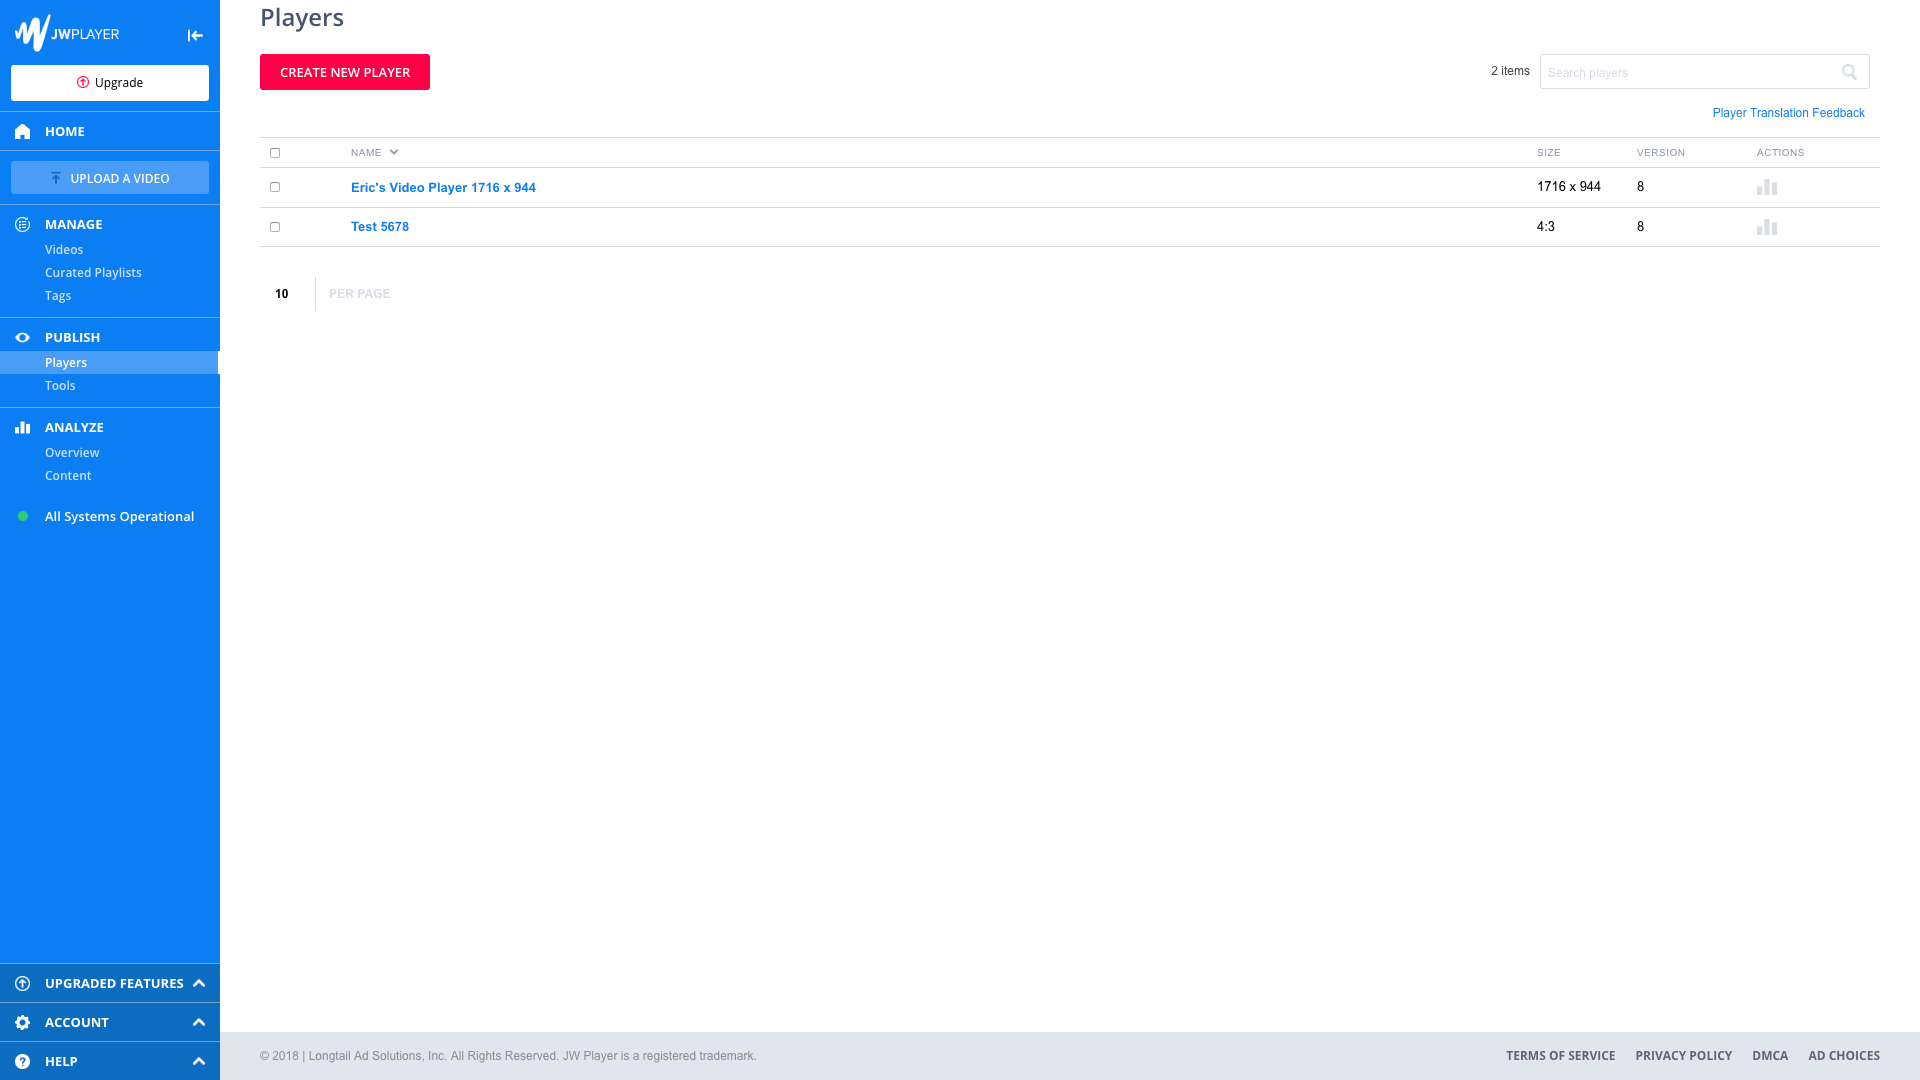
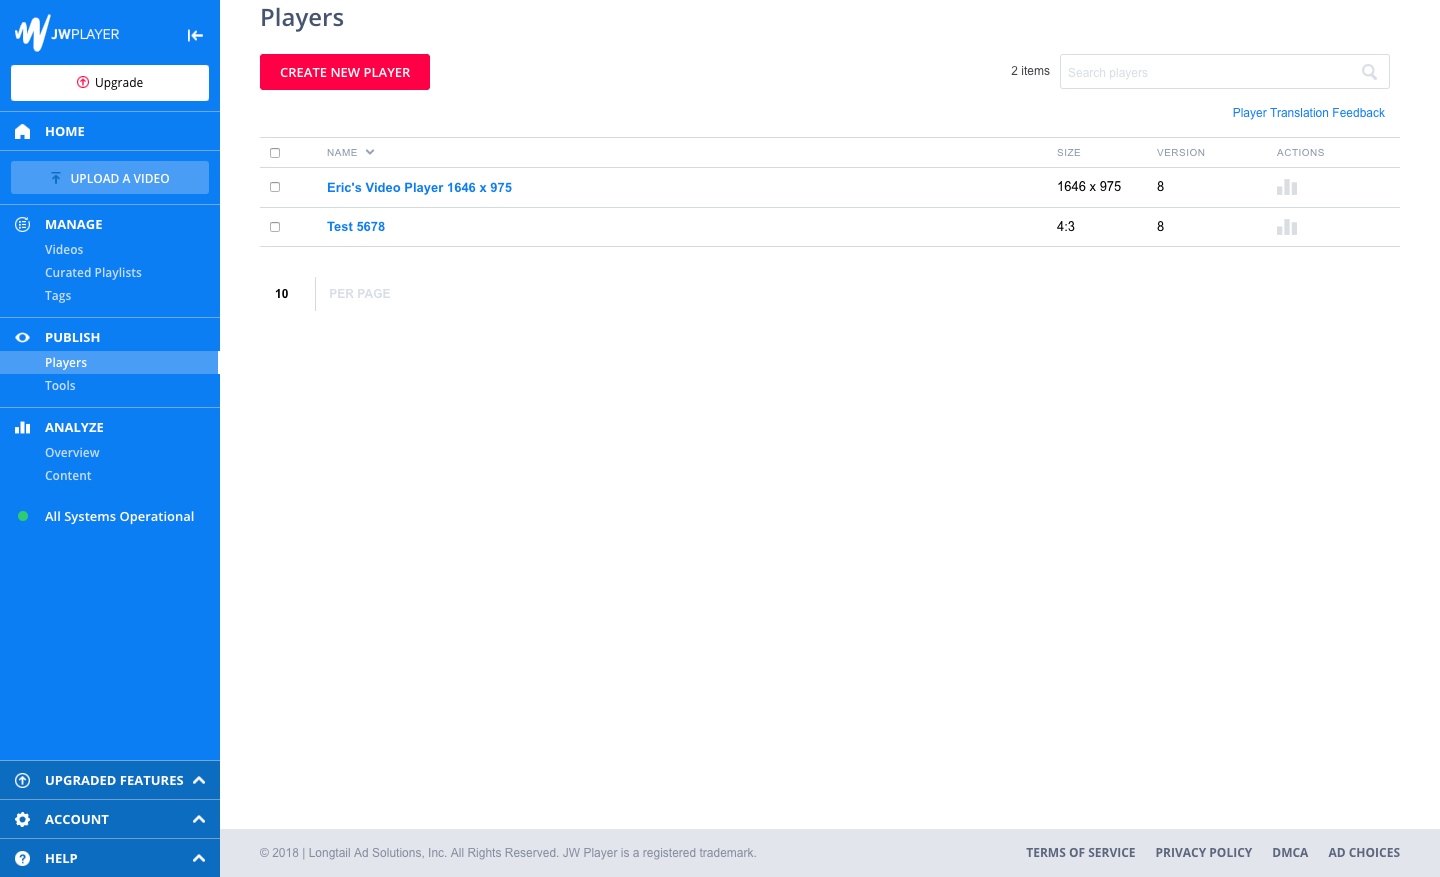
adds working tests with page objects

diff --git a/test/spec/jw_player.spec.js b/test/spec/jw_player.spec.js
@@ -1,25 +1,22 @@
+/**
+ * Test setup/teardown and steps utilizing page objects for the requested problems.
+ */
 
-
-/*1. Log in to the jwplayer dashboard at https://dashboard.jwplayer.com/ (You will need to Create a free account ahead of time and use those credentials to log in)
-    2. Click on the “Players” link in the navbar to go to the players list page
+/*
+1. Log in to the jwplayer dashboard at https://dashboard.jwplayer.com/ (You will need to Create a free account ahead of time and use those credentials to log in)
+2. Click on the “Players” link in the navbar to go to the players list page
 3. Click the name of an example player in the list to go to the player builder page.
-   4. On the player builder page, rename the player, change the aspect ratio, and save your changes
-5. Close the player builder page;  on the players list page verify your changes to the name and size of the player*/
-
+4. On the player builder page, rename the player, change the aspect ratio, and save your changes
+5. Close the player builder page;  on the players list page verify your changes to the name and size of the player
+*/
 
 import puppeteer from "puppeteer";
-import {DASHBOARD_LOGIN} from "../fixtures/login";
 
-
-const BASE_URI = "https://dashboard.jwplayer.com/";
-
+/*********************** Puppeteer/Jest Setup ******************************/
 let page;
 let browser;
-const width = 1920;
-const height = 1080;
 
-
-
+//Set 'headless' to turn off browswer UI, increase sloMo to slow down test execution.
 beforeAll(async () => {
     browser = await puppeteer.launch({
         headless: false,
@@ -27,64 +24,64 @@ beforeAll(async () => {
         args: [`--start-fullscreen`]
     });
     page = await browser.newPage();
+    //dynamically set browser viewport to user's display resolution, else default to
+    //MacBook Pro resolution
+    const width = await page.evaluate("window.screen.availWidth") || 1440;
+    const height = await page.evaluate("window.screen.availHeight") || 900;
     await page.setViewport({ width, height });
 });
 
 afterAll(() => {
     browser.close();
 });
+/***************************************************************************/
 
-const newPlayerWidth = generateResolution().width;
-const newPlayerHeight = generateResolution().height;
+
+//Setup for tests
+import { dashboardLogin } from "../fixtures/login";
+import * as dashboardSignIn from "../page-objects/dashboard-sign-in";
+import * as playerList from "../page-objects/player-list";
+import * as playerBuilder from "../page-objects/player-builder";
+import * as helper from "../page-objects/helper";
+
+const newPlayerWidth = helper.generateResolution().width;
+const newPlayerHeight = helper.generateResolution().height;
 const newTitle = "Eric's Video Player " + newPlayerWidth + " x " + newPlayerHeight;
 
 describe("JWPlayer test", () => {
     test("logs into dashboard", async () => {
-        await page.goto(BASE_URI);
-        await page.waitForSelector("[name=\"loginForm\"] #email");
-        await page.type("[name=\"loginForm\"] #email", DASHBOARD_LOGIN.email);
-        await page.type("[name=\"loginForm\"] [name=\"password\"]", DASHBOARD_LOGIN.password);
-        await page.click("[name=\"loginForm\"] #submit_login");
-        await page.waitForSelector(".navigation-bar .publish [href=\"/#/players/list\"]");
-            //expect(await page.title()).toContain("Overview")
-    }, 16000);
+        await page.goto(dashboardSignIn.URI);
+        await page.waitForSelector(dashboardSignIn.selectors.email);
+        await page.type(dashboardSignIn.selectors.email, dashboardLogin.email);
+        await page.type(dashboardSignIn.selectors.password, dashboardLogin.password);
+        await page.click(dashboardSignIn.selectors.signInButton);
+        await page.waitForSelector(playerList.NavBar.selectors.playerListLink);
+    }, 20000);
 
     test("clicks on players link and goes to player builder page", async () => {
-        await page.click(".navigation-bar .publish [href=\"/#/players/list\"]");
-        await page.waitForSelector(".player-table .videoTruncate");
-        await page.click(".player-table .videoTruncate");
+        await page.click(playerList.NavBar.selectors.playerListLink);
+        await page.waitForSelector(playerList.selectors.firstRowPlayerLink);
+        await page.click(playerList.selectors.firstRowPlayerLink);
         await page.waitForSelector("#player-name");
-    }, 16000);
+    }, 20000);
 
     test("renames the player, changes aspect ration and saves changes", async() => {
-        await page.evaluate( () => document.querySelector("#player-name").value = "");
-        await page.type("#player-name", newTitle);
-        await page.click(".player-size #fixed");
-        await page.evaluate( () => document.querySelector(".fixed-size-input [placeholder=\"Width\"]").value = "");
-        await page.evaluate( () => document.querySelector(".fixed-size-input [placeholder=\"Height\"]").value = "");
-        await page.type(".fixed-size-input [placeholder=\"Width\"]", newPlayerWidth);
-        await page.type(".fixed-size-input [placeholder=\"Height\"]", newPlayerHeight);
-        await page.click(".action-buttons [ng-show=\"canEditPlayers()\"]");
-        await page.waitForSelector(".success.notification-show");
-    });
+        await helper.clearTextFields(page, Object.values(playerBuilder.selectors.formFields));
+        await page.type(playerBuilder.selectors.formFields.playerNameTextField, newTitle);
+        await page.click(playerBuilder.selectors.fixedSizeRadioButton);
+        await page.type(playerBuilder.selectors.formFields.playerWidth, newPlayerWidth);
+        await page.type(playerBuilder.selectors.formFields.playerHeight, newPlayerHeight);
+        await page.click(playerBuilder.header.selectors.saveChangesButton);
+        await page.waitForSelector(playerBuilder.header.selectors.successNotification);
+    }, 20000);
 
     test("closes player builder page and verifies the changed name and player aspect ratio", async() => {
-        await page.click(".action-buttons [ng-click=\"close()\"]");
-        await page.waitForSelector(".player-table tbody tr:first-child [title]");
-        const savedTitle = await page.$eval(".player-table tbody tr:first-child [title]", element => element.innerText);
-        const savedResolution = await page.$eval(".player-table tbody tr:first-child td:nth-child(3)", element => element.innerText);
-        expect(savedTitle).toBe(newTitle);
-        expect(newPlayerWidth + " x " + newPlayerHeight).toBe(savedResolution.trim());
+        await page.click(playerBuilder.header.selectors.closePlayerButton);
+        await page.waitForSelector(playerList.selectors.firstRowPlayerLink);
+        const savedTitle = await helper.getInnerText(page, playerList.selectors.firstRowPlayerLink);
+        const savedResolution = await helper.getInnerText(page, playerList.selectors.firstRowResolution);
+            expect(savedTitle).toBe(newTitle);
+            expect(newPlayerWidth + " x " + newPlayerHeight).toBe(savedResolution);
         await page.screenshot({ path: 'myscreenshot.png', fullPage: true });
-    })
+    }, 20000)
 });
-
-
-function generateResolution() {
-   let width =  Math.floor((Math.random() * (1920 - 1280) + 1280));
-   let height = Math.floor(width / 1.777777778);
-    return {
-        "width": width.toString(),
-        "height": height.toString()
-   }
-}

diff --git a/test/page-objects/helper.js b/test/page-objects/helper.js
@@ -1,0 +1,52 @@
+/**
+ * "Helper" functions that would be commonly called across many page objects.
+ */
+
+
+/**
+ * Helper method for clearing a single or list of text fields of placeholder text
+ * @param page: Puppeteer page object
+ * @param selectors: A single string representing a selector or an array of strings
+ * @returns {Promise<void>}
+ */
+async function clearTextFields(page, selectors) {
+    if (Array.isArray(selectors)) {
+        for (let selector of selectors) {
+            page.$eval(selector, textField => textField.value = "");
+        }
+    } else
+        page.$eval(selectors, textField => textField.value = "");
+}
+
+/**
+ * Helper method for returning trimmed text displayed to the user from a single
+ * or list of elements
+ * @param page: Puppeteer page object
+ * @param selectors: A single string representing a selector or an array of strings
+ * @returns {Promise<Array>} or single promise for single selector
+ */
+async function getInnerText(page, selectors) {
+    if (Array.isArray(selectors)) {
+        let innerText = [];
+        for (let selector of selectors) {
+            innerText.push(await page.$eval(selector, element => element.innerText.trim()));
+        }
+        return innerText;
+    } else
+        return await page.$eval(selectors, element => element.innerText.trim());
+}
+
+/**
+ * Generate the width and height of a (very, very close) 16x9 display resolution in pixels
+ * @returns {{width: string, height: string}}
+ */
+function generateResolution() {
+    let width =  Math.floor((Math.random() * (1920 - 1280) + 1280));
+    let height = Math.floor(width / 1.777777778);
+    return {
+        "width": width.toString(),
+        "height": height.toString()
+    }
+}
+
+export { clearTextFields, getInnerText, generateResolution }

diff --git a/test/page-objects/player-builder.js b/test/page-objects/player-builder.js
@@ -1,0 +1,23 @@
+/**
+ * An individual player builder (configuration) page where resolution and other properties
+ * may be edited.
+ */
+
+import * as basePage from "./base-page"
+import * as navBar from "./partials/dashboard-navbar"
+import * as header from "./partials/player-builder/header"
+
+//property token and unique player ID would be queried from an internal API
+const route = "#/players/basic_setup_jw8?property=&player_key=";
+const URI = basePage.BASE_URI + route;
+
+const selectors = {
+    "formFields": {
+        "playerNameTextField": "#player-name",
+        "playerWidth":         ".fixed-size-input [placeholder=\"Width\"]",
+        "playerHeight":        ".fixed-size-input [placeholder=\"Height\"]"
+    },
+    "fixedSizeRadioButton": ".player-size #fixed"
+};
+
+export { route, URI, selectors, header, navBar }

diff --git a/test/page-objects/player-list.js b/test/page-objects/player-list.js
@@ -1,0 +1,17 @@
+/**
+ * The Player List page presented immediately after sign in where all a
+ * user's current players are listed.
+ */
+
+import * as basePage from "./base-page"
+import * as NavBar from "./partials/dashboard-navbar"
+
+const route = "#/players/";
+const URI = basePage.BASE_URI + route;
+
+const selectors = {
+    "firstRowPlayerLink": ".player-table tbody tr:first-child [title]",
+    "firstRowResolution": ".player-table tbody tr:first-child td:nth-child(3)"
+};
+
+export { URI, NavBar, selectors }

diff --git a/test/page-objects/partials/player-builder/header.js b/test/page-objects/partials/player-builder/header.js
@@ -1,0 +1,12 @@
+/**
+ * The header that is persistent in the Player Builder page and through all it's tabs
+ * @type {{successNotification: string, closePlayerButton: string, saveChangesButton: string}}
+ */
+
+const selectors = {
+    "saveChangesButton": ".action-buttons [ng-show=\"canEditPlayers()\"]",
+    "closePlayerButton": ".action-buttons [ng-click=\"close()\"]",
+    "successNotification": ".success.notification-show"
+};
+
+export { selectors }

diff --git a/test/page-objects/dashboard-sign-in.js b/test/page-objects/dashboard-sign-in.js
@@ -1,0 +1,15 @@
+/**
+ * Main login page for JWPlayer Dashboard.
+ */
+
+import * as basePage from "./base-page"
+
+const URI = basePage.BASE_URI;
+
+const selectors = {
+    "email":        "[name=\"loginForm\"] #email",
+    "password":     "[name=\"loginForm\"] [name=\"password\"]",
+    "signInButton": "[name=\"loginForm\"] #submit_login"
+};
+
+export { URI, selectors }

diff --git a/test/fixtures/login.js b/test/fixtures/login.js
@@ -1,6 +1,11 @@
-const DASHBOARD_LOGIN = {
+/**
+ * Login credentials for Player Dashboard.
+ * @type {{password: string, email: string}}
+ */
+
+const dashboardLogin = {
     "email":        "esaari@gmail.com",
     "password":     "f88jmSA_9Yg!rr8"
 };
 
-export {DASHBOARD_LOGIN}
+export { dashboardLogin }

diff --git a/test/page-objects/partials/dashboard-navbar.js b/test/page-objects/partials/dashboard-navbar.js
@@ -1,0 +1,11 @@
+/**
+ * Navigation tool bar that is present upon login and through all subsequent
+ * player actions.
+ * @type {{playerListLink: string}}
+ */
+
+const selectors = {
+    "playerListLink": ".navigation-bar .publish [href=\"/#/players/list\"]"
+};
+
+export { selectors }

diff --git a/test/page-objects/base-page.js b/test/page-objects/base-page.js
@@ -1,0 +1,8 @@
+/**
+ * Properties and functions of a basic page to be inherited/imported into all subsequent pages.
+ * @type {string}
+ */
+
+const BASE_URI = "https://dashboard.jwplayer.com/";
+
+export { BASE_URI }
